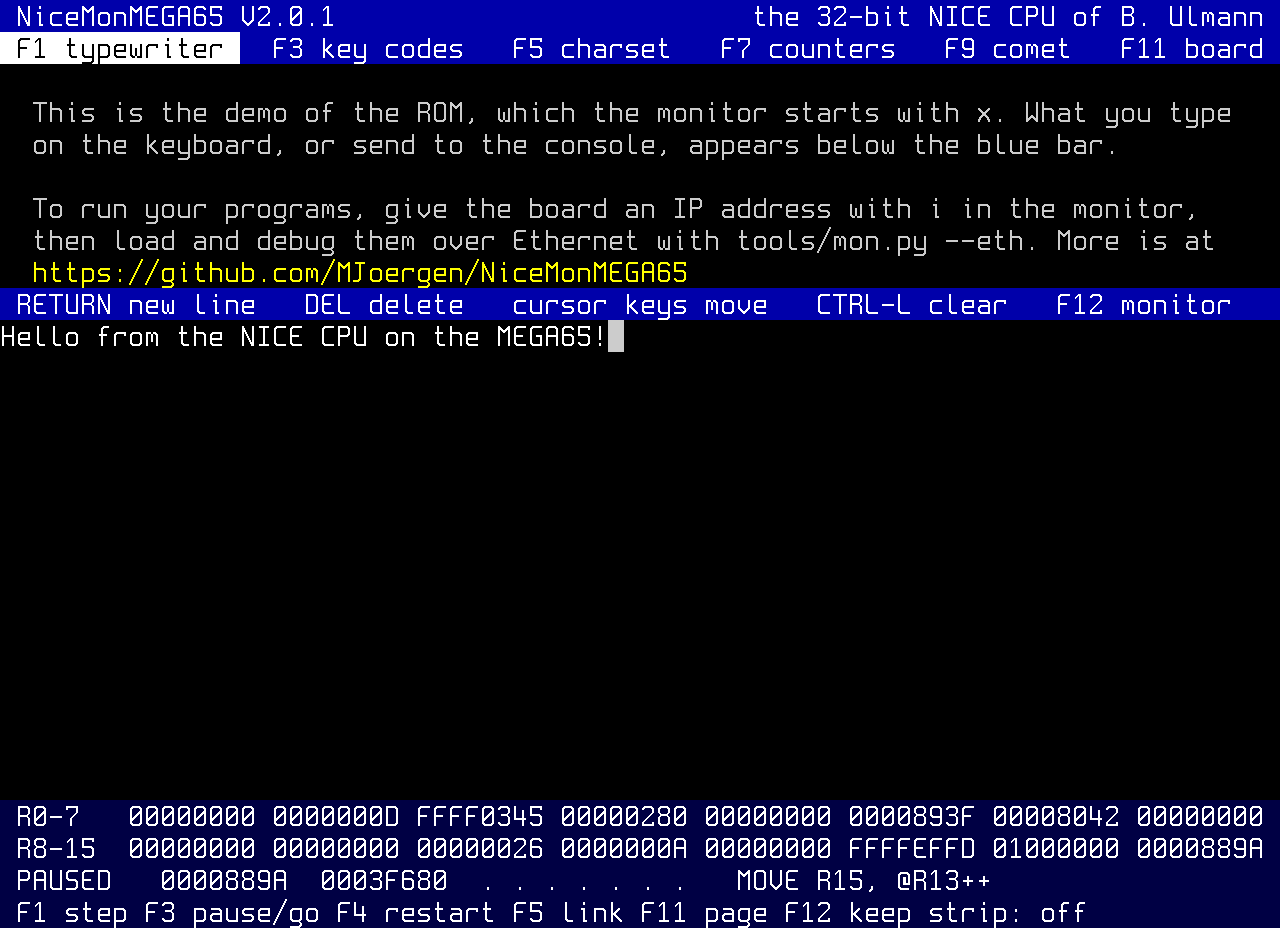
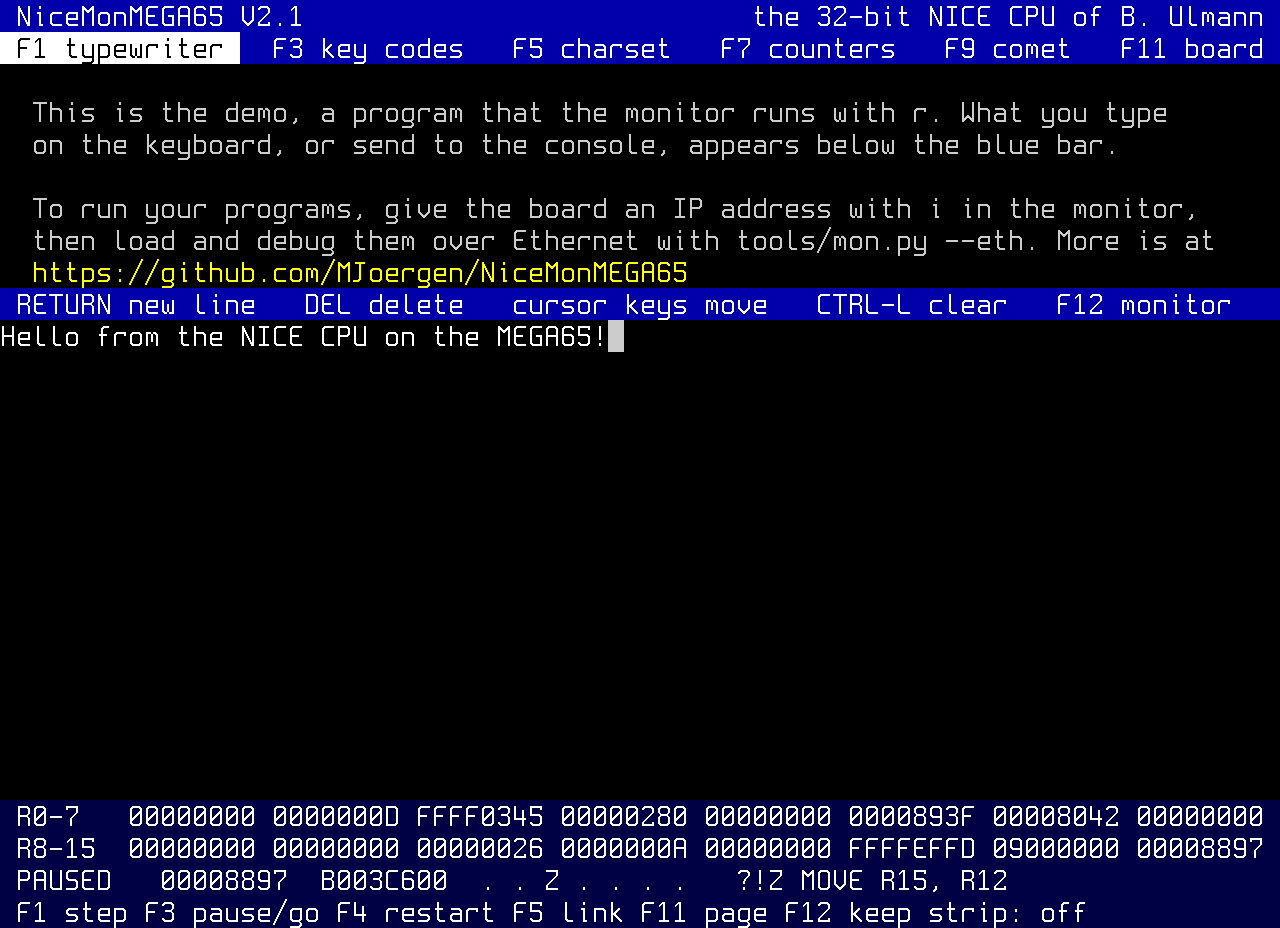
Date the V2.1 notes and draw the pictures again
The README's three pictures show V2.1 in the demo's title bar. The
debugger's picture paused before the last character of the line had
been typed at step 20476, so it is drawn at 20540, after the CR is
read, as before; screenshot.py's docstring has the new count.

diff --git a/tools/screenshot.py b/tools/screenshot.py
@@ -40,7 +40,7 @@ doc/images/ethernet.png, the demo's F11, with:
 and doc/images/debugger.png, the typewriter paused under the strip once
 the line of the first in.txt is typed, with:
 
-    tools/screenshot.py -i in.txt -n 20476 --debugger \\
+    tools/screenshot.py -i in.txt -n 20540 --debugger \\
         -o doc/images/debugger.png rom.bin
 
 Usage:

diff --git a/doc/RELEASE_NOTES.md b/doc/RELEASE_NOTES.md
@@ -21,7 +21,7 @@ The release candidates pinned these:
 
 nice_cpu's `RC01` and `RC03` have no tag here.
 
-## V2.1
+## V2.1 (2026-11-14)
 
 **Upgrade notes.**
 
